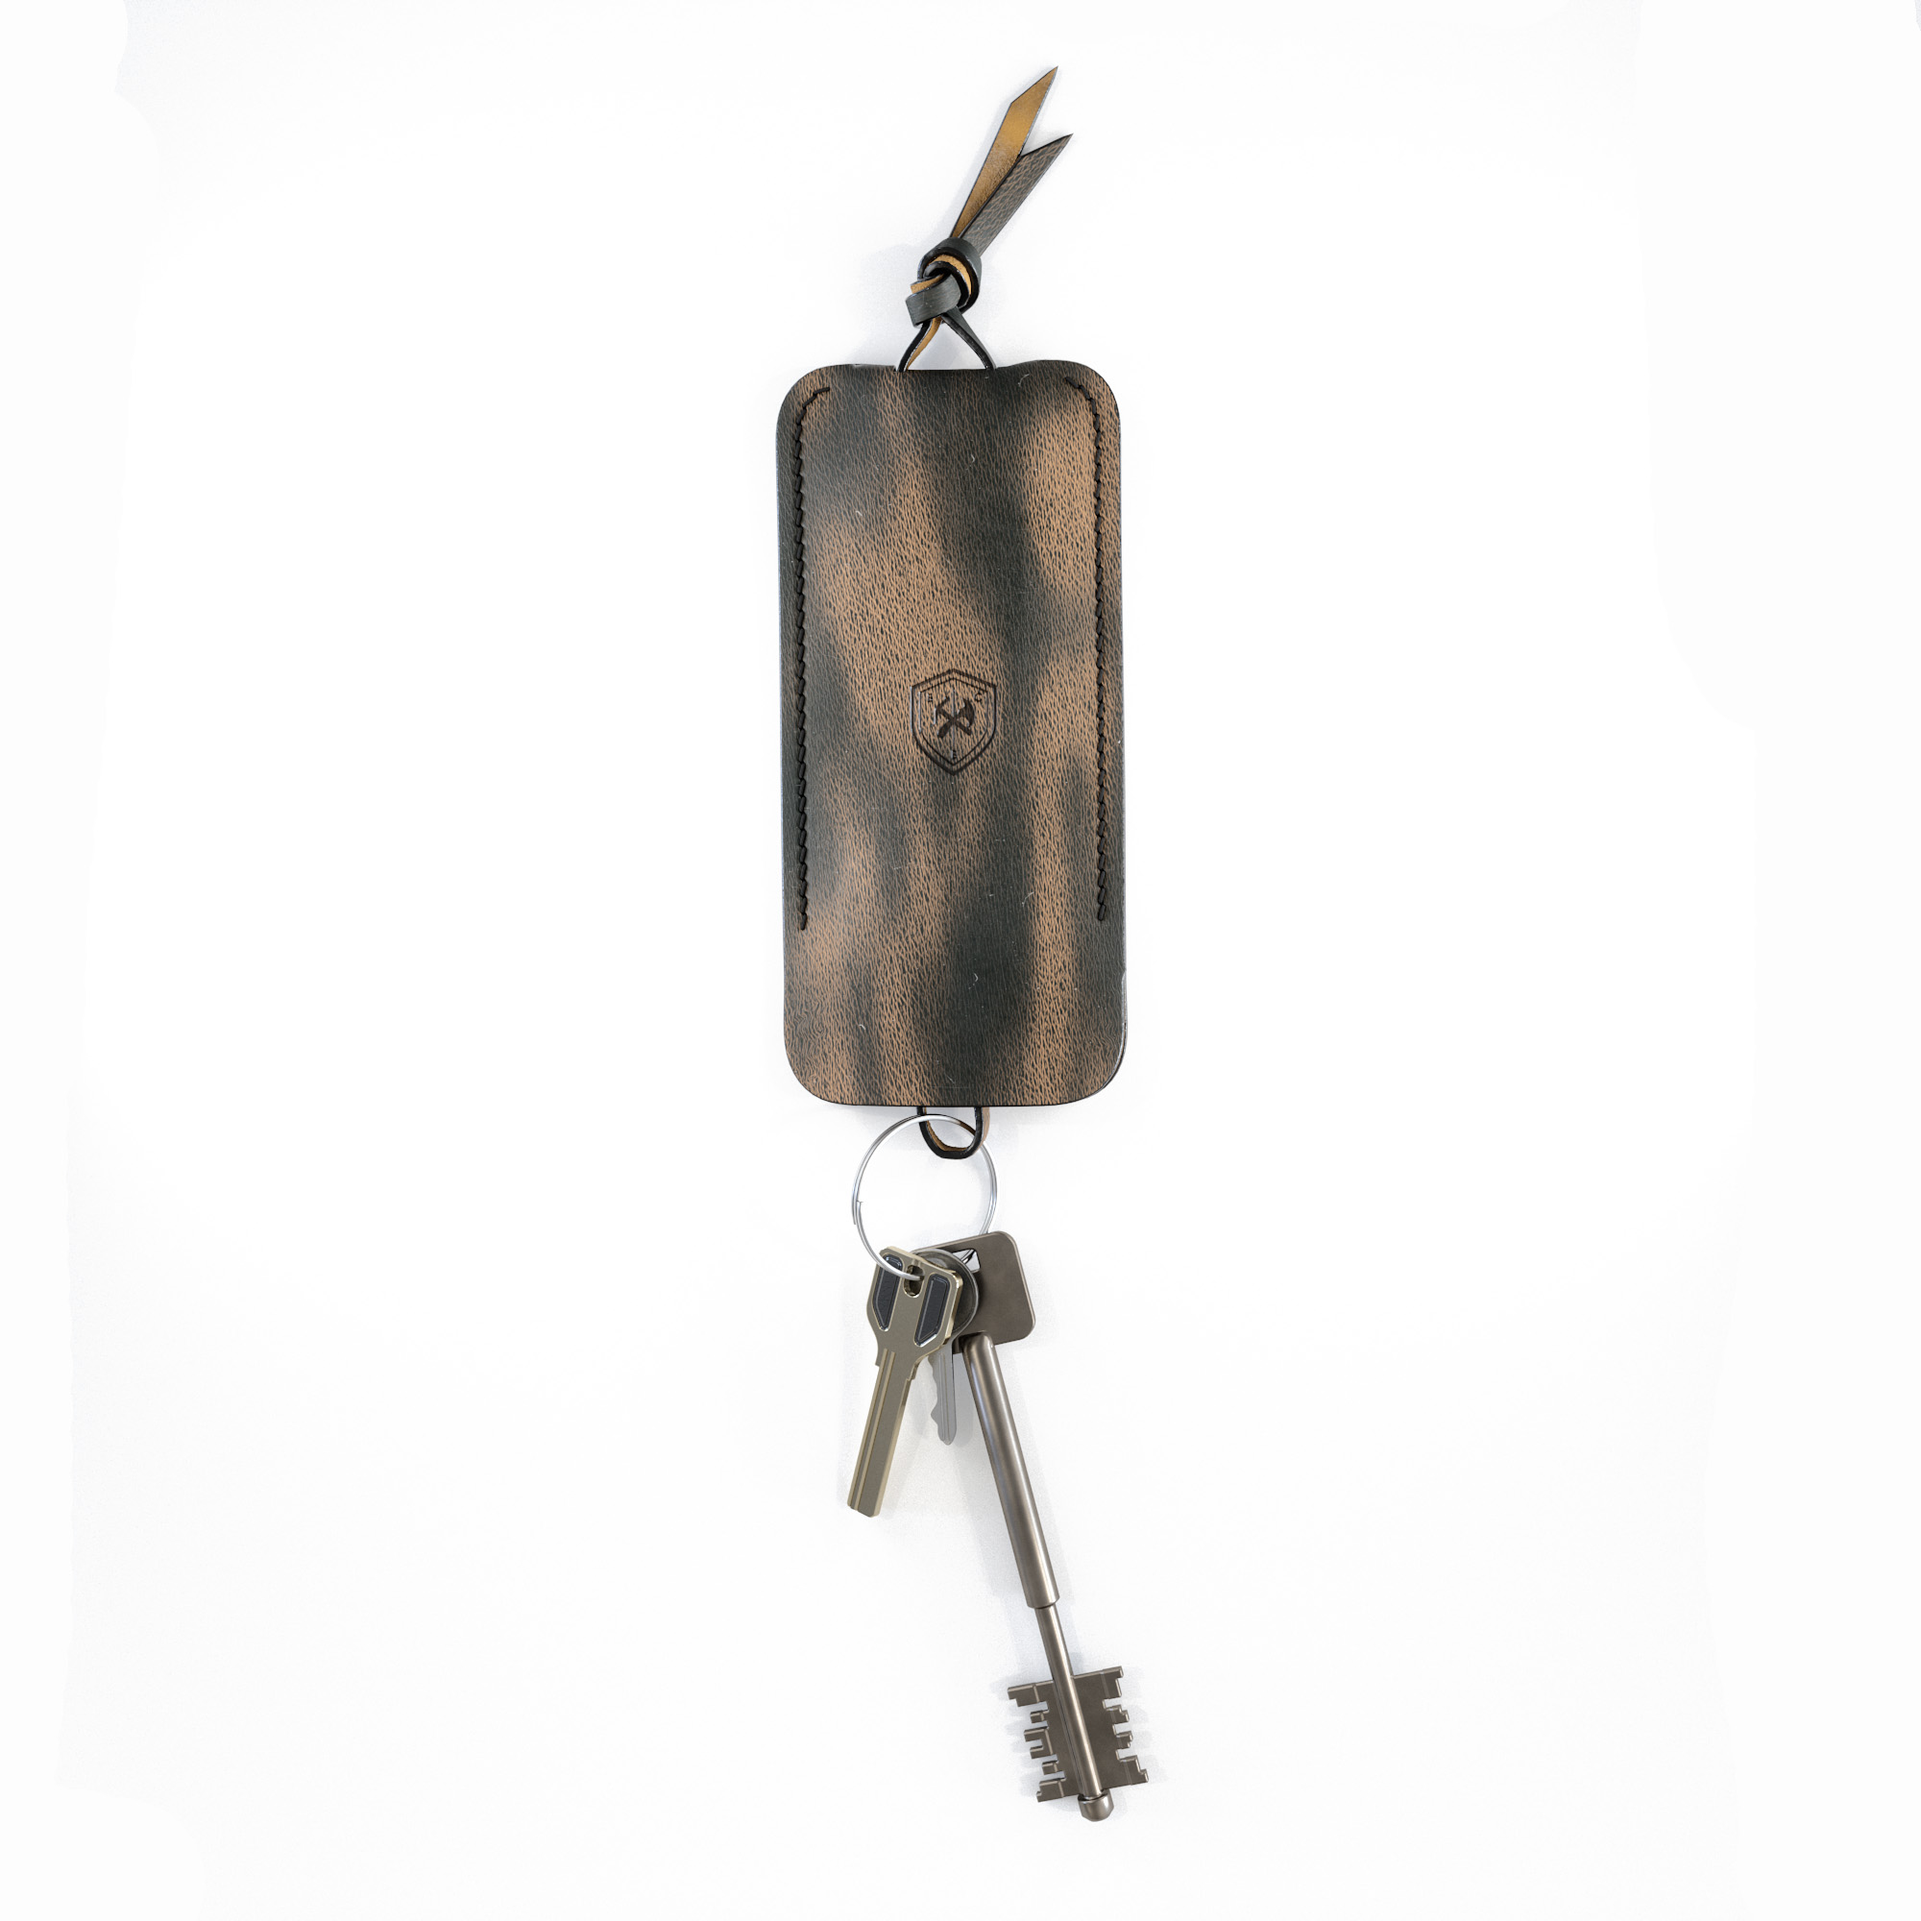
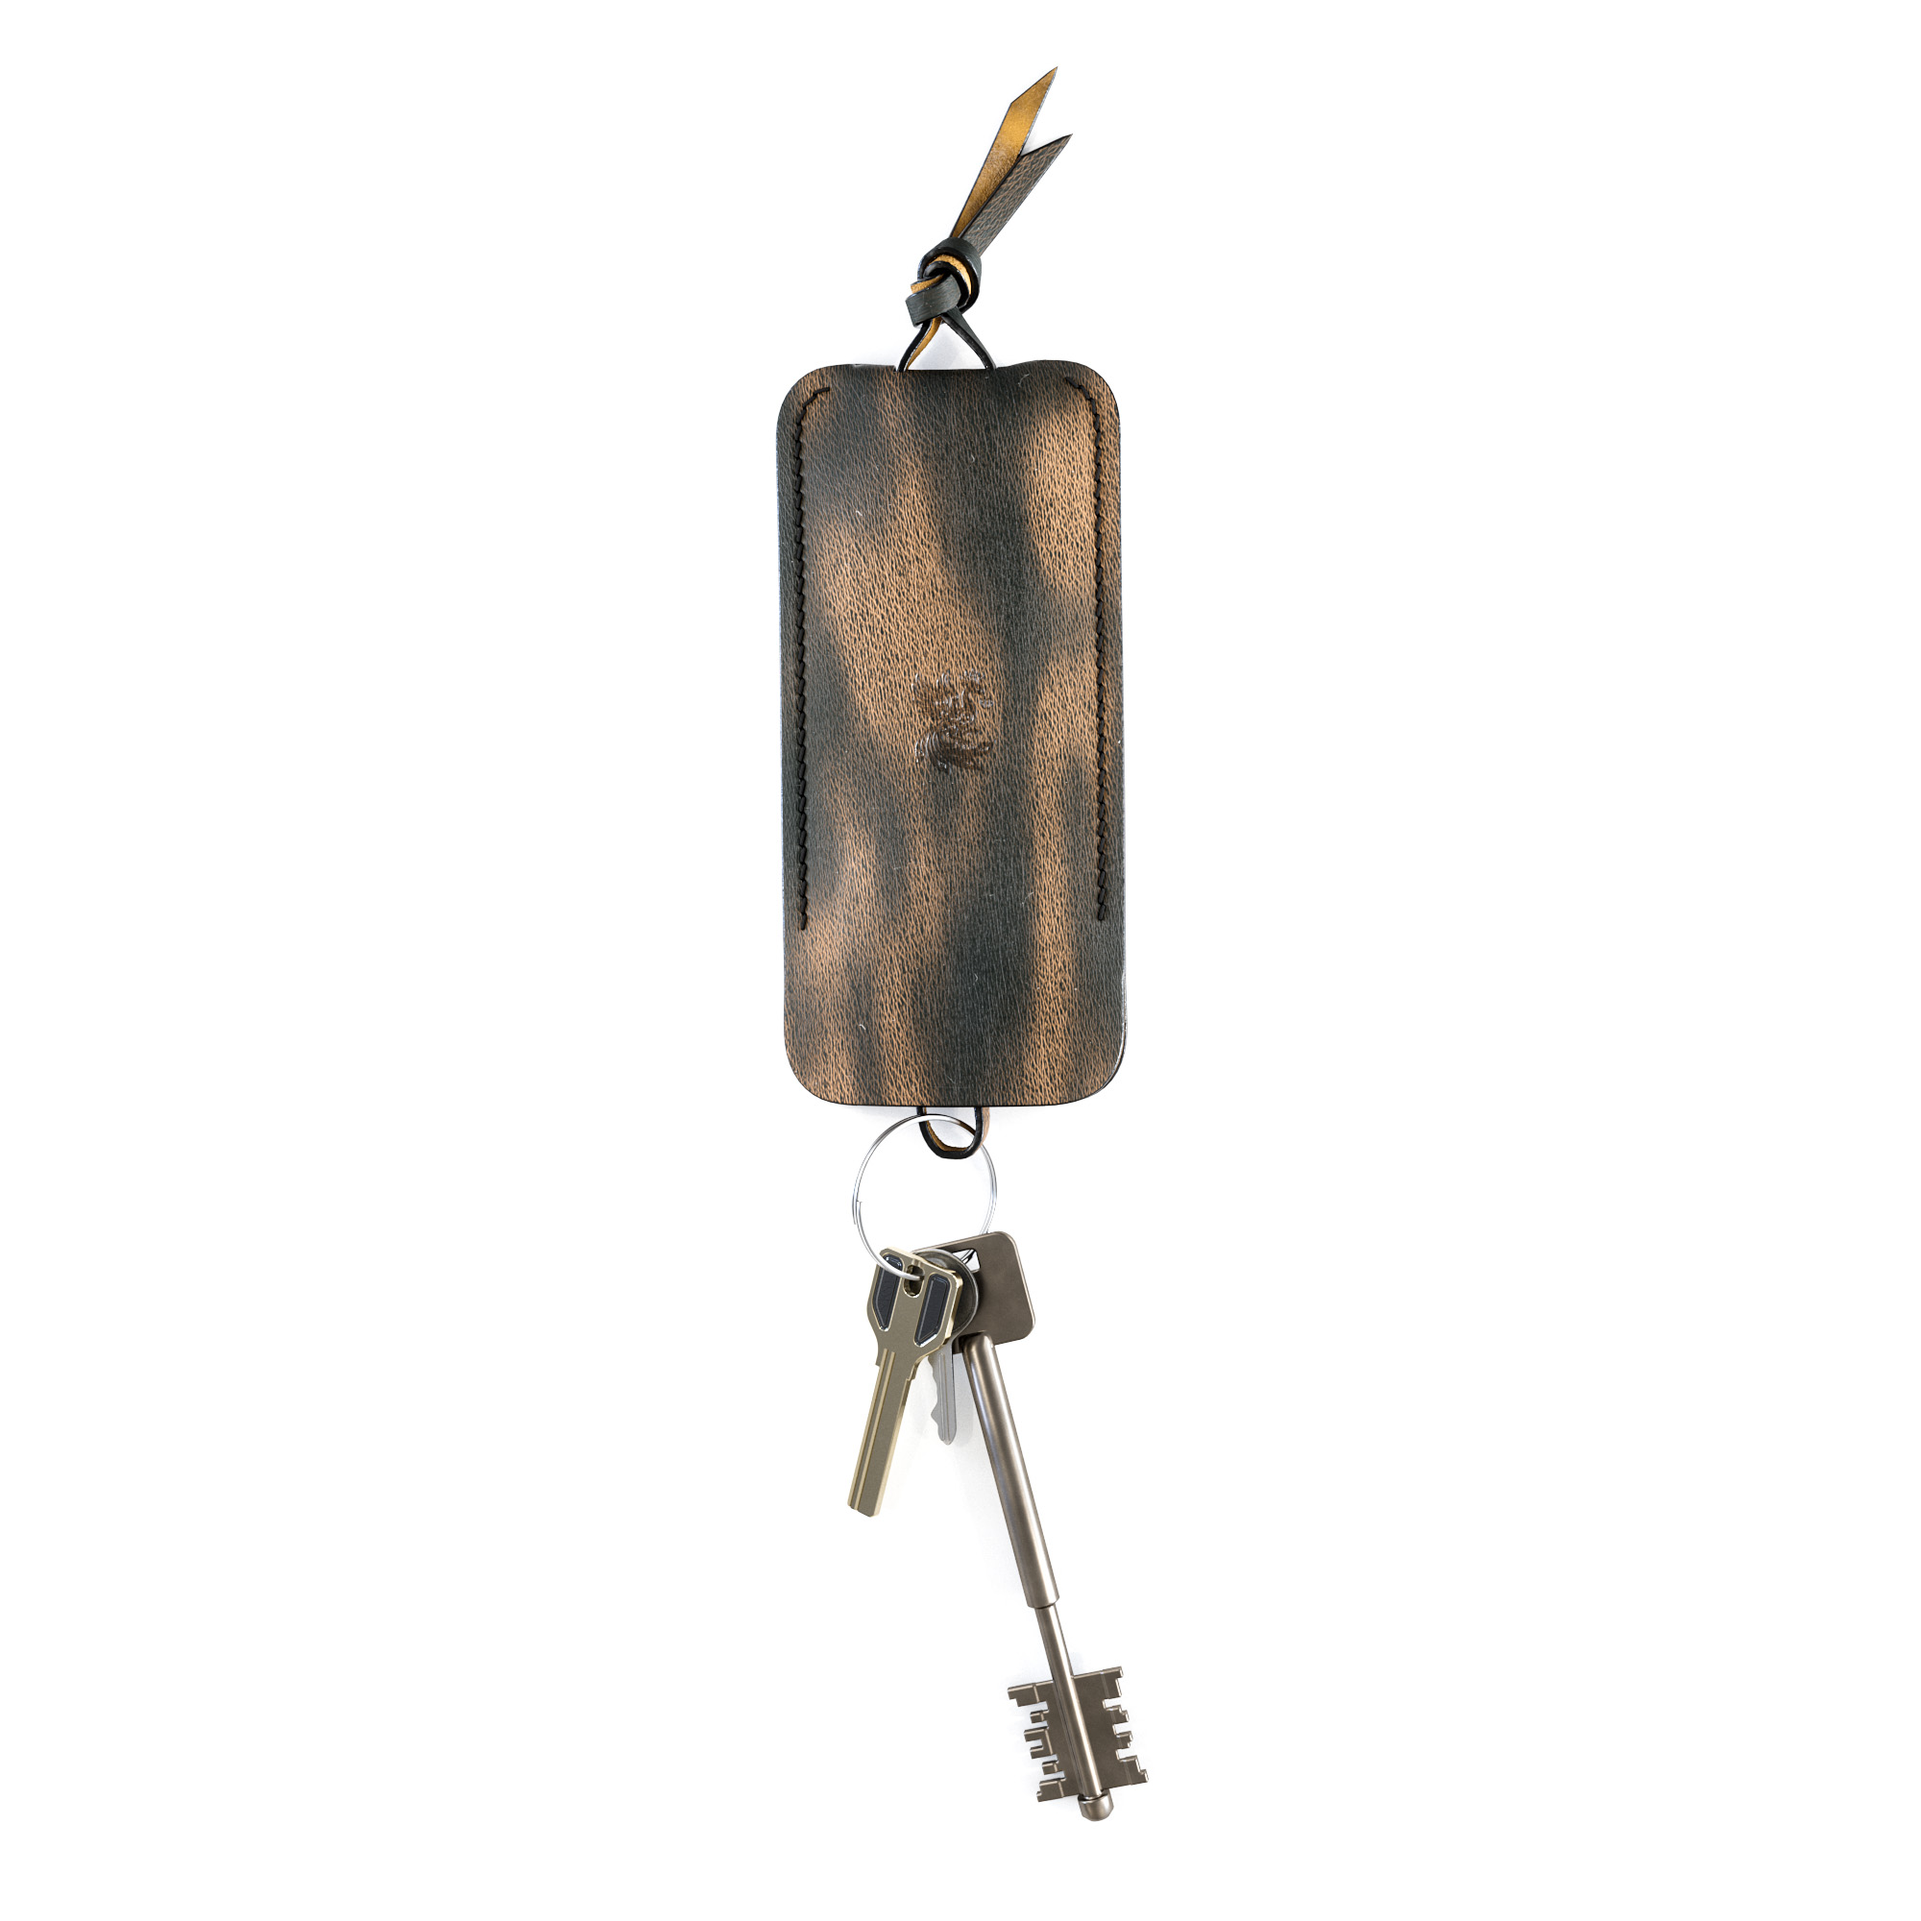
Изменены картинки и логотип

diff --git a/components/Hero.tsx b/components/Hero.tsx
@@ -12,7 +12,7 @@ export const Hero: React.FC<HeroProps> = ({ onNavigate }) => {
     <section className="relative h-screen w-full overflow-hidden flex items-center justify-center bg-[#14110f]">
       {/* 1. Атмосферный задний фон с текстурой */}
       <div 
-        className="absolute inset-0 z-0 opacity-35 transform scale-105 transition-transform duration-10000 ease-out"
+        className="absolute inset-0 z-0 opacity-100 transform scale-105 transition-transform duration-10000 ease-out"
         style={{
           backgroundImage: `url(${HERO_IMAGE})`,
           backgroundPosition: 'center',
@@ -21,7 +21,7 @@ export const Hero: React.FC<HeroProps> = ({ onNavigate }) => {
       />
       
       {/* 2. Градиентные виньетки для читаемости текста */}
-      <div className="absolute inset-0 z-0 bg-gradient-to-b from-black/80 via-black/40 to-[#14110f]" />
+      <div className="absolute inset-0 z-0 bg-gradient-to-b from-black/40 via-black/40 to-[#14110f]" />
       <div className="absolute inset-0 z-0 bg-[radial-gradient(circle_at_center,_var(--tw-gradient-stops))] from-transparent via-black/30 to-black/80" />
 
       {/* 3. Основной контент */}
@@ -36,7 +36,7 @@ export const Hero: React.FC<HeroProps> = ({ onNavigate }) => {
         <div className="flex items-center gap-3 mb-3">
           <span className="w-8 h-px bg-[#e6ccb2]/40" />
           <span className="text-[#e6ccb2]/80 font-mono text-[11px] md:text-xs uppercase tracking-[0.3em]">
-            Ручная работа • Италия & Россия
+            Ручная работа • Россия
           </span>
           <span className="w-8 h-px bg-[#e6ccb2]/40" />
         </div>
